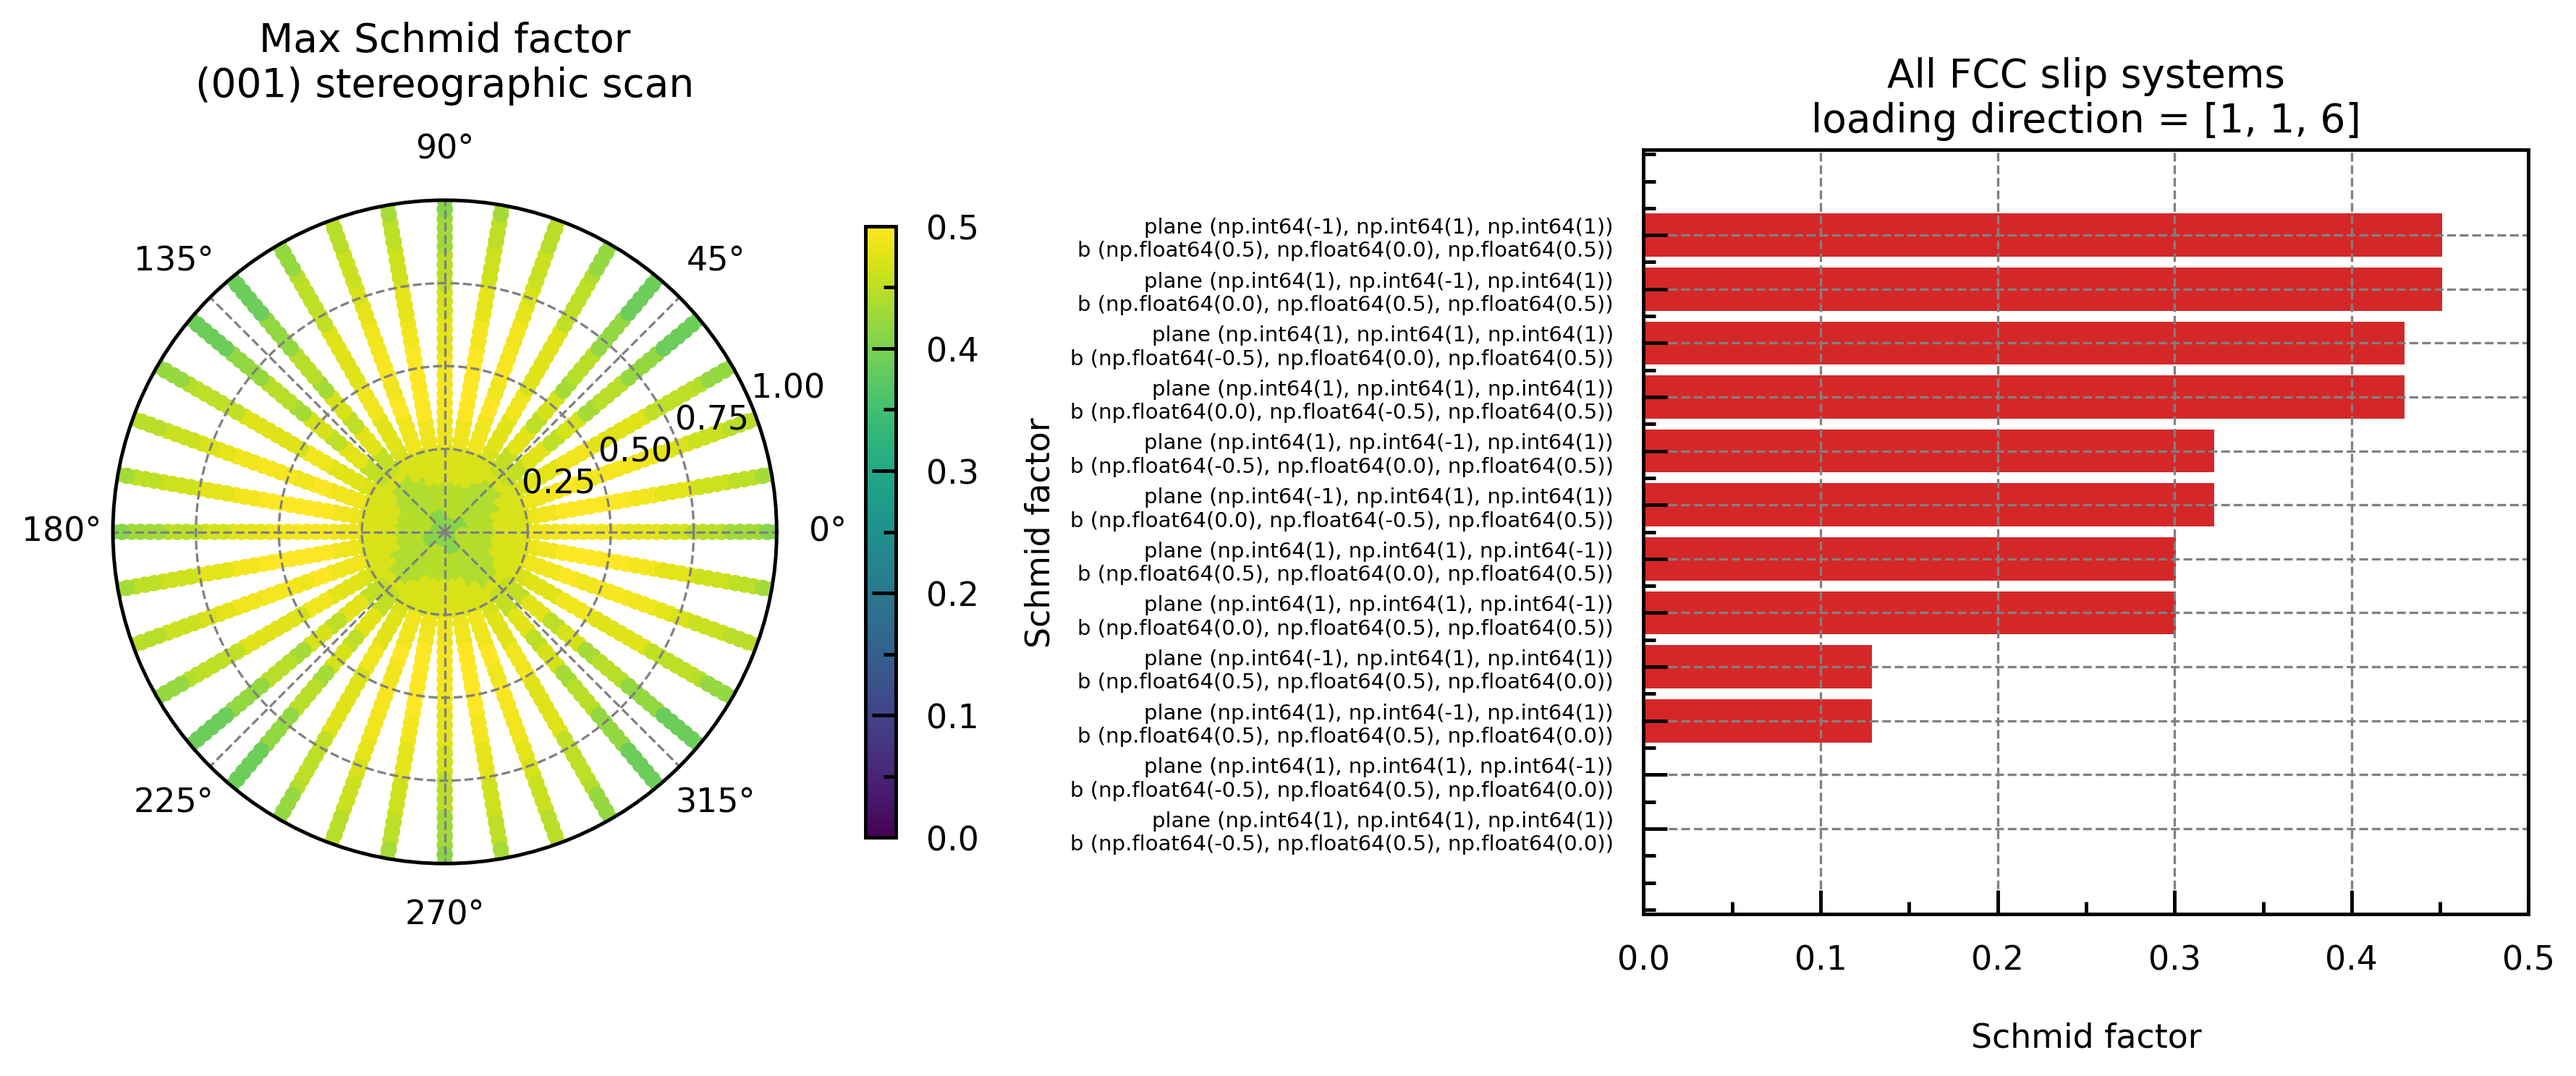
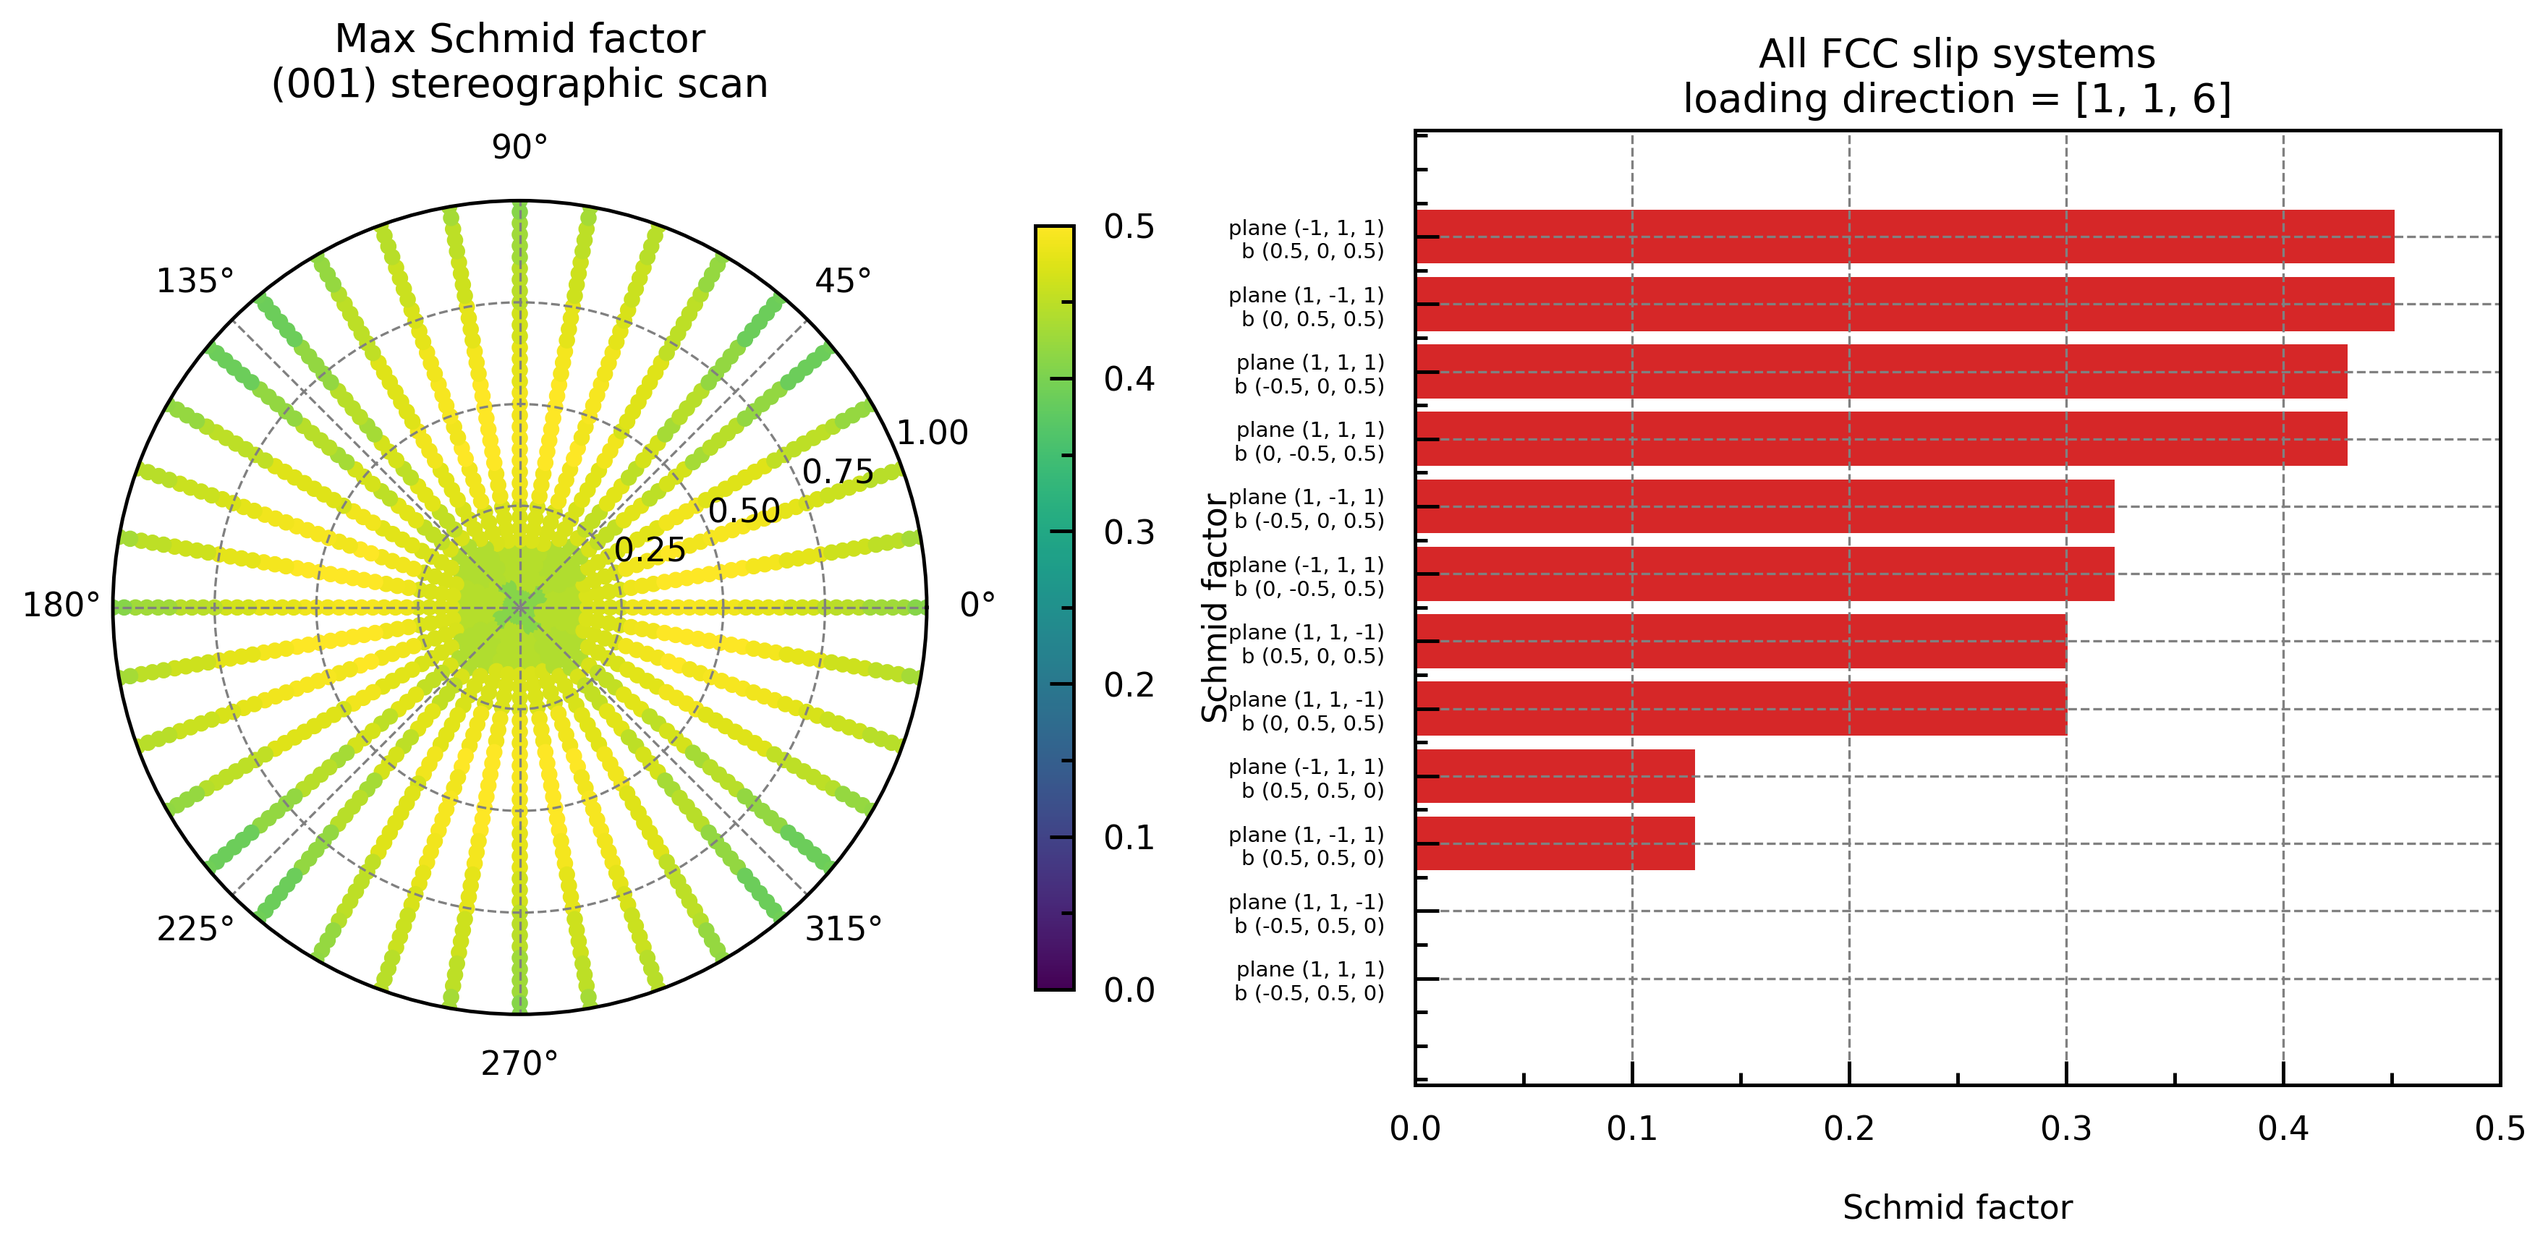
fix(docs): :bug: 修复网站图表并改用本地静态图

diff --git a/docs/examples/schmid_factor.py b/docs/examples/schmid_factor.py
@@ -103,6 +103,13 @@ def compute_polar_grid() -> pd.DataFrame:
     return pd.DataFrame(rows)
 
 
+def format_slip_label(slip_plane, dislocation) -> str:
+    """Format NumPy-backed vectors as short, plain-number axis labels."""
+    plane = ", ".join(str(int(value)) for value in slip_plane)
+    vector = ", ".join(f"{float(value):.2g}" for value in dislocation)
+    return f"plane ({plane})\nb ({vector})"
+
+
 def render_figure(
     reference_table: pd.DataFrame,
     scan_table: pd.DataFrame,
@@ -150,10 +157,8 @@ def render_figure(
     df = reference_table.copy()
     df = df.sort_values("schmid_factor", ascending=True).reset_index(drop=True)
     y_pos = np.arange(len(df))
-    labels = [
-        f"plane {tuple(row['slip_plane'])}\nb {tuple(np.round(row['dislocation'], 2))}"
-        for _, row in df.iterrows()
-    ]
+    labels = [format_slip_label(row["slip_plane"], row["dislocation"])
+              for _, row in df.iterrows()]
     colors = ["#d62728" if v > 1e-6 else "#cccccc" for v in df["schmid_factor"]]
     ax.barh(y_pos, df["schmid_factor"], color=colors)
     ax.set_yticks(y_pos)
@@ -215,6 +220,9 @@ def parse_args() -> argparse.Namespace:
 
 if __name__ == "__main__":
     result = run_example(parse_args().output)
+    assert format_slip_label([-1, 1, 1], [-0.5, 0.0, 0.5]) == (
+        "plane (-1, 1, 1)\nb (-0.5, 0, 0.5)"
+    )
     # The reference direction must activate at least one slip system.
     assert (result["reference_table"]["schmid_factor"] > 1e-6).any()
     # Schmid factors must lie in [0, 0.5].

diff --git a/docs/examples/slurm_utils_overview.py b/docs/examples/slurm_utils_overview.py
@@ -298,7 +298,7 @@ def draw_panel_discovery_layout(ax):
          "生成文件布局", fc=COLOR_NODE, fontsize=8.5, fontweight="bold")
     _arrow(ax, 7.5, 9.95, 7.5, 9.7, lw=1.0)
 
-    _code(ax, 7.5, 7.9, 4.6, 3.4,
+    _code(ax, 7.5, 7.5, 4.6, 4.2,
           "<path_root>/\n"
           "├─ <dir_root>/**/y_dir/<case>/\n"
           "│    └─ sub_slurm_univ.sh      # 每计算目录一脚本\n"
@@ -379,7 +379,7 @@ def draw_panel_retry_table(ax):
         colLabels=headers,
         colWidths=col_widths,
         cellLoc="left",
-        loc="center",
+        bbox=[0.0, 0.10, 1.0, 0.84],
     )
     table.auto_set_font_size(False)
     table.set_fontsize(7.4)
@@ -603,9 +603,9 @@ def draw_panel_monitor_commands(ax):
 def render_overview(path_image: Path) -> None:
     """Build the 5-panel overview figure and save it to path_image."""
     _set_rcparams()
-    fig = plt.figure(figsize=(16, 12), dpi=150)
+    fig = plt.figure(figsize=(18, 16), dpi=150)
     gs = fig.add_gridspec(
-        3, 2, hspace=0.34, wspace=0.12,
+        3, 2, height_ratios=[1.2, 0.85, 1.45], hspace=0.30, wspace=0.12,
         left=0.03, right=0.98, top=0.95, bottom=0.03,
     )
     ax1 = fig.add_subplot(gs[0, 0])

diff --git a/ai-guide/website-enhancement-2026/MASTER_PLAN.md b/ai-guide/website-enhancement-2026/MASTER_PLAN.md
@@ -43,6 +43,18 @@
 
 **审阅重点**: 确认图片不溢出、字体可读、移动端友好
 
+#### 网站图片维护倾向（2026-08-21）
+
+- 网站使用 `docs/source/_static/images/generated/` 中人工验收并提交的本地 PNG；
+  GitHub Actions 运行示例和 Sphinx 构建，但默认不重新生成、覆盖这些网站图片。
+- 图片生成脚本继续保留，供本地复现和修改；更新图片时应在本机生成、逐图目视检查后，
+  将脚本与最终 PNG 一起提交。只有 CI 已明确安装并验证中文字体时，才考虑恢复自动绘图。
+- 中文必须在生成 PNG 时正确栅格化，不能依赖浏览器或部署服务器补字体。
+- 流程图方框按实际多行文字扩容，文字不得越界、互相覆盖或压住脚注；优先增加画布、
+  行高和框体尺寸，不以过度缩小字号掩盖布局问题。
+- xlabel、tick label 和 table 单元格不得直接显示 `np.float64(...)`、`np.int64(...)`
+  等 NumPy 对象表示；先转换为 Python `float` / `int`，数值最多保留两位有效数字。
+
 ### Task B: plot 函数文档页 (worker + auditor)
 
 **源代码**: mymetal/universal/plot/ 下 11 个模块
